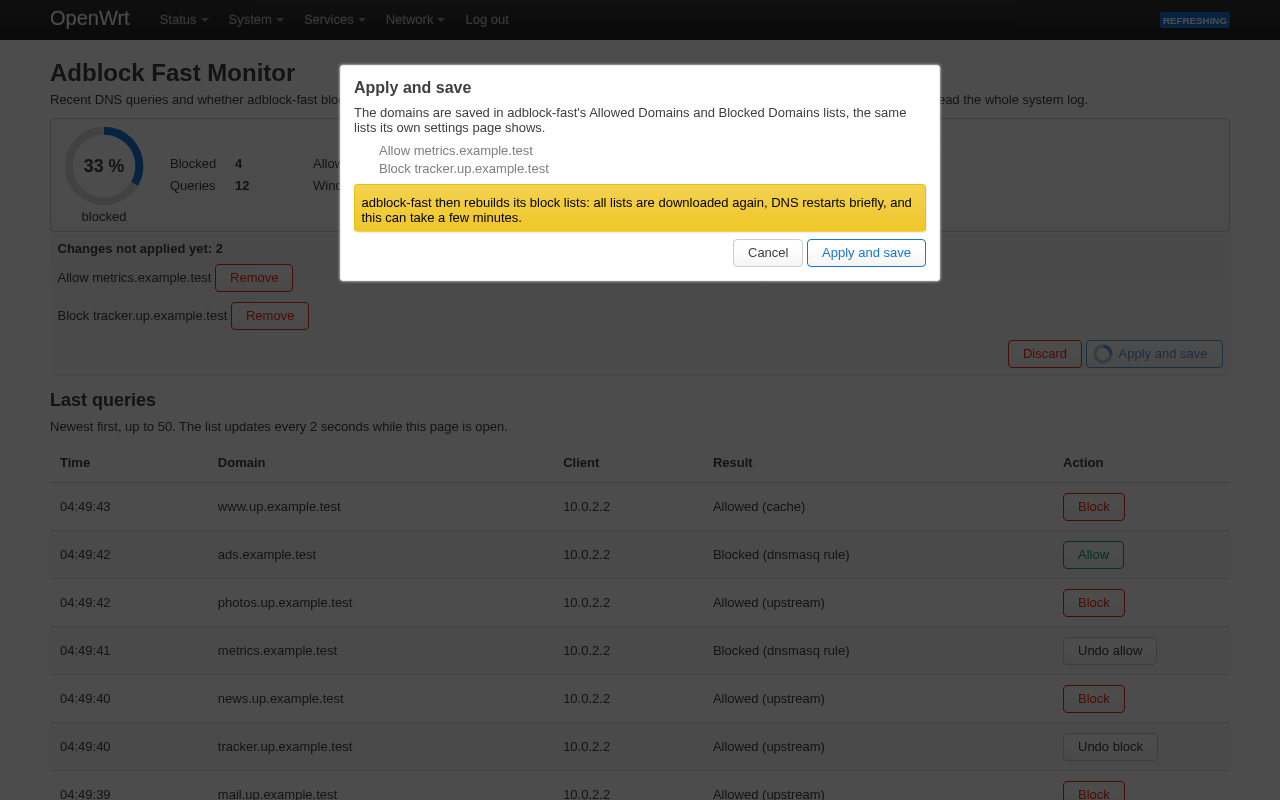
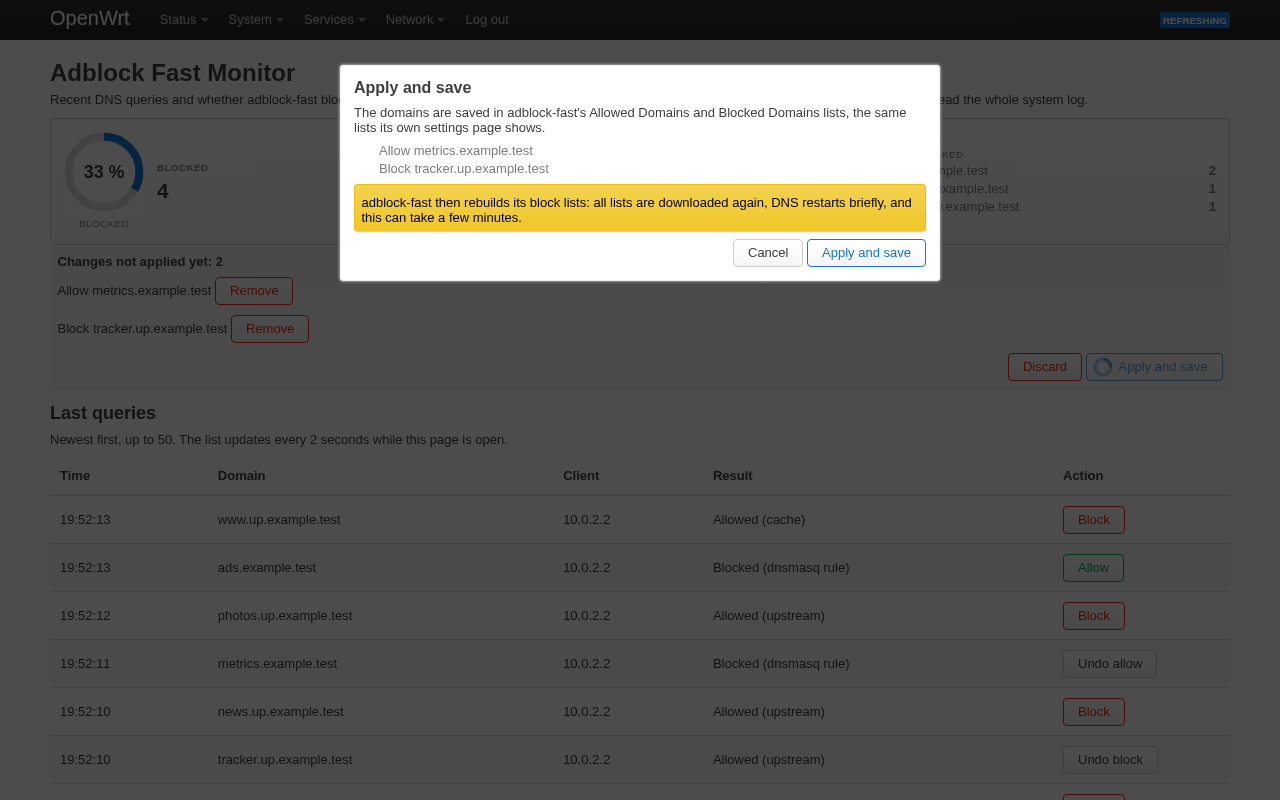
ui: wrap the statistics into a 2x2 grid on narrow screens
Each pair of figures needs 13em, so at 360 px the pairs wrap.

diff --git a/htdocs/luci-static/resources/view/adblock-fast-monitor/overview.js b/htdocs/luci-static/resources/view/adblock-fast-monitor/overview.js
@@ -588,7 +588,7 @@ return view.extend({
 					E('dd', { 'style': 'margin:0;font-size:1.6em;font-weight:bold;line-height:1.3;white-space:nowrap' }, [ v.figures[key] ])
 				]);
 			};
-			const pair = (a, b) => E('div', { 'style': 'display:flex;flex:1 1 11em;gap:' + PANEL_GAP }, [ a, b ]);
+			const pair = (a, b) => E('div', { 'style': 'display:flex;flex:1 1 13em;gap:' + PANEL_GAP }, [ a, b ]);
 			for (let i = 0; i < TOP_BLOCKED; i++) {
 				const name = textNode(), count = textNode();
 				const li = E('li', { 'style': 'display:none;justify-content:space-between;gap:1em' }, [
